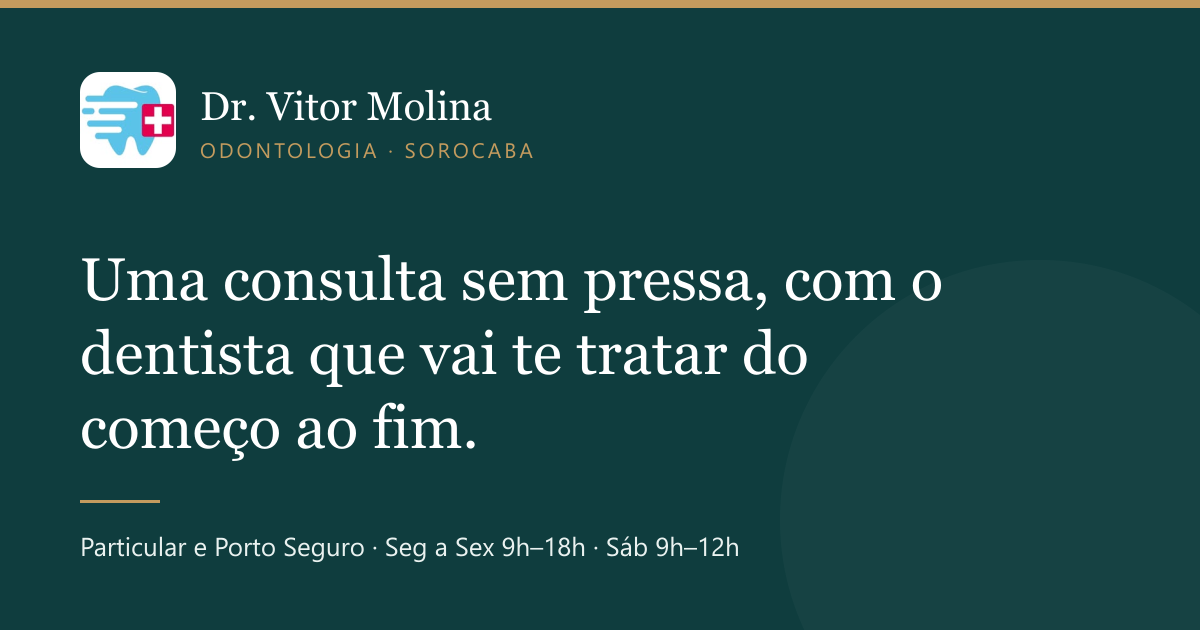
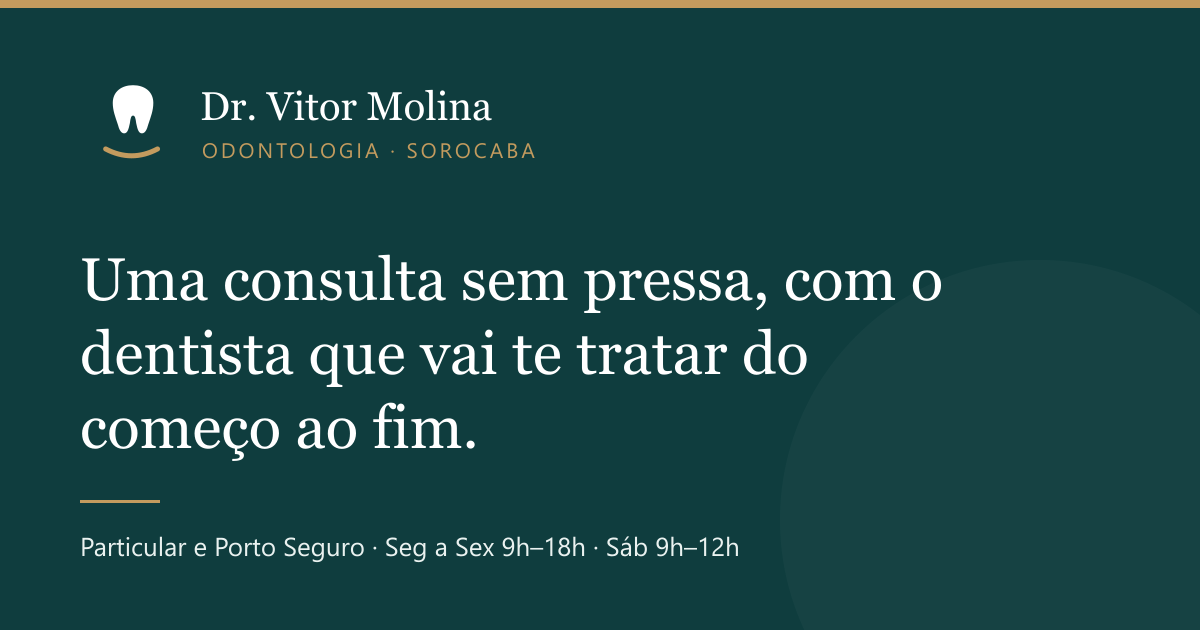
Nova logomarca vetorial e foto do profissional
Marca
- public/logo.svg e logo-reverso.svg: dente branco com arco dourado sobre
  quadrado petroleo, legivel a partir de 32px (substitui o logo.jpg herdado
  da pasta dentalrecover, que era clipart 150x150 fora da paleta)
- favicon, apple-touch-icon, icones do manifest, logo.png (512, usado no
  Schema.org) e og.png passam a ser derivados do SVG por npm run imagens
- cabecalho usa a marca em fundo claro; rodape usa a versao reversa

Foto
- foto-dr-vitor-molina.jpg (original ~530px) gera duas versoes: retrato de
  520px exibido em tamanho medio (max 260px na home e em /sobre/) e recorte
  fechado no rosto de 200px para a caixa do autor dos artigos
- retrato entra em /sobre/, na secao "Sobre o consultorio" da home e como
  Person.image no Schema.org (reforco de E-E-A-T)
- imagem nunca e ampliada: a resolucao do original limita o tamanho exibido

Changed region(s): [[0.0617, 0.0905, 0.3083, 0.2714], [0.3392, 0.2111, 0.4317, 0.2714]]

diff --git a/src/lib/schema.ts b/src/lib/schema.ts
@@ -60,6 +60,7 @@ export function pessoaSchema() {
     jobTitle: DENTISTA.cargo,
     description: DENTISTA.bio,
     url: urlAbsoluta('/sobre/'),
+    image: urlAbsoluta(DENTISTA.foto),
     ...(PENDENTE.cro
       ? {}
       : {
@@ -93,8 +94,8 @@ export function consultorioSchema() {
     alternateName: [SITE.nome, DENTISTA.nomeGoogle],
     description: SITE.descricao,
     url: SITE.url,
-    image: urlAbsoluta('/logo.jpg'),
-    logo: urlAbsoluta('/logo.jpg'),
+    image: urlAbsoluta('/logo.png'),
+    logo: urlAbsoluta('/logo.png'),
     ...(PENDENTE.telefone ? {} : { telephone: NAP.telefoneLink }),
     ...(NAP.email ? { email: NAP.email } : {}),
     address: PENDENTE.endereco
@@ -249,7 +250,7 @@ export function artigoSchema(a: Artigo, url: string) {
     keywords: [a.keyword, ...a.keywordsSecundarias].join(', '),
     about: { '@id': ID_CONSULTORIO },
     wordCount: contarPalavras(a),
-    image: urlAbsoluta('/logo.jpg'),
+    image: urlAbsoluta('/og.png'),
     isAccessibleForFree: true,
   };
 }

diff --git a/src/data/site.ts b/src/data/site.ts
@@ -67,6 +67,8 @@ export const DENTISTA = {
     'Harmonização facial',
     'Odontologia geral e restauradora',
   ],
+  foto: '/dr-vitor-molina.jpg', // retrato médio (520px) — /sobre/ e home
+  avatar: '/dr-vitor-molina-avatar.jpg', // recorte no rosto (200px) — caixa do autor
   bio: 'O Dr. Vitor Molina é cirurgião-dentista em Sorocaba (SP) e atende pessoalmente todas as etapas do tratamento — diagnóstico, planejamento, execução e acompanhamento. O consultório trabalha com atendimento particular e com o convênio Porto Seguro.',
 } as const;
 
